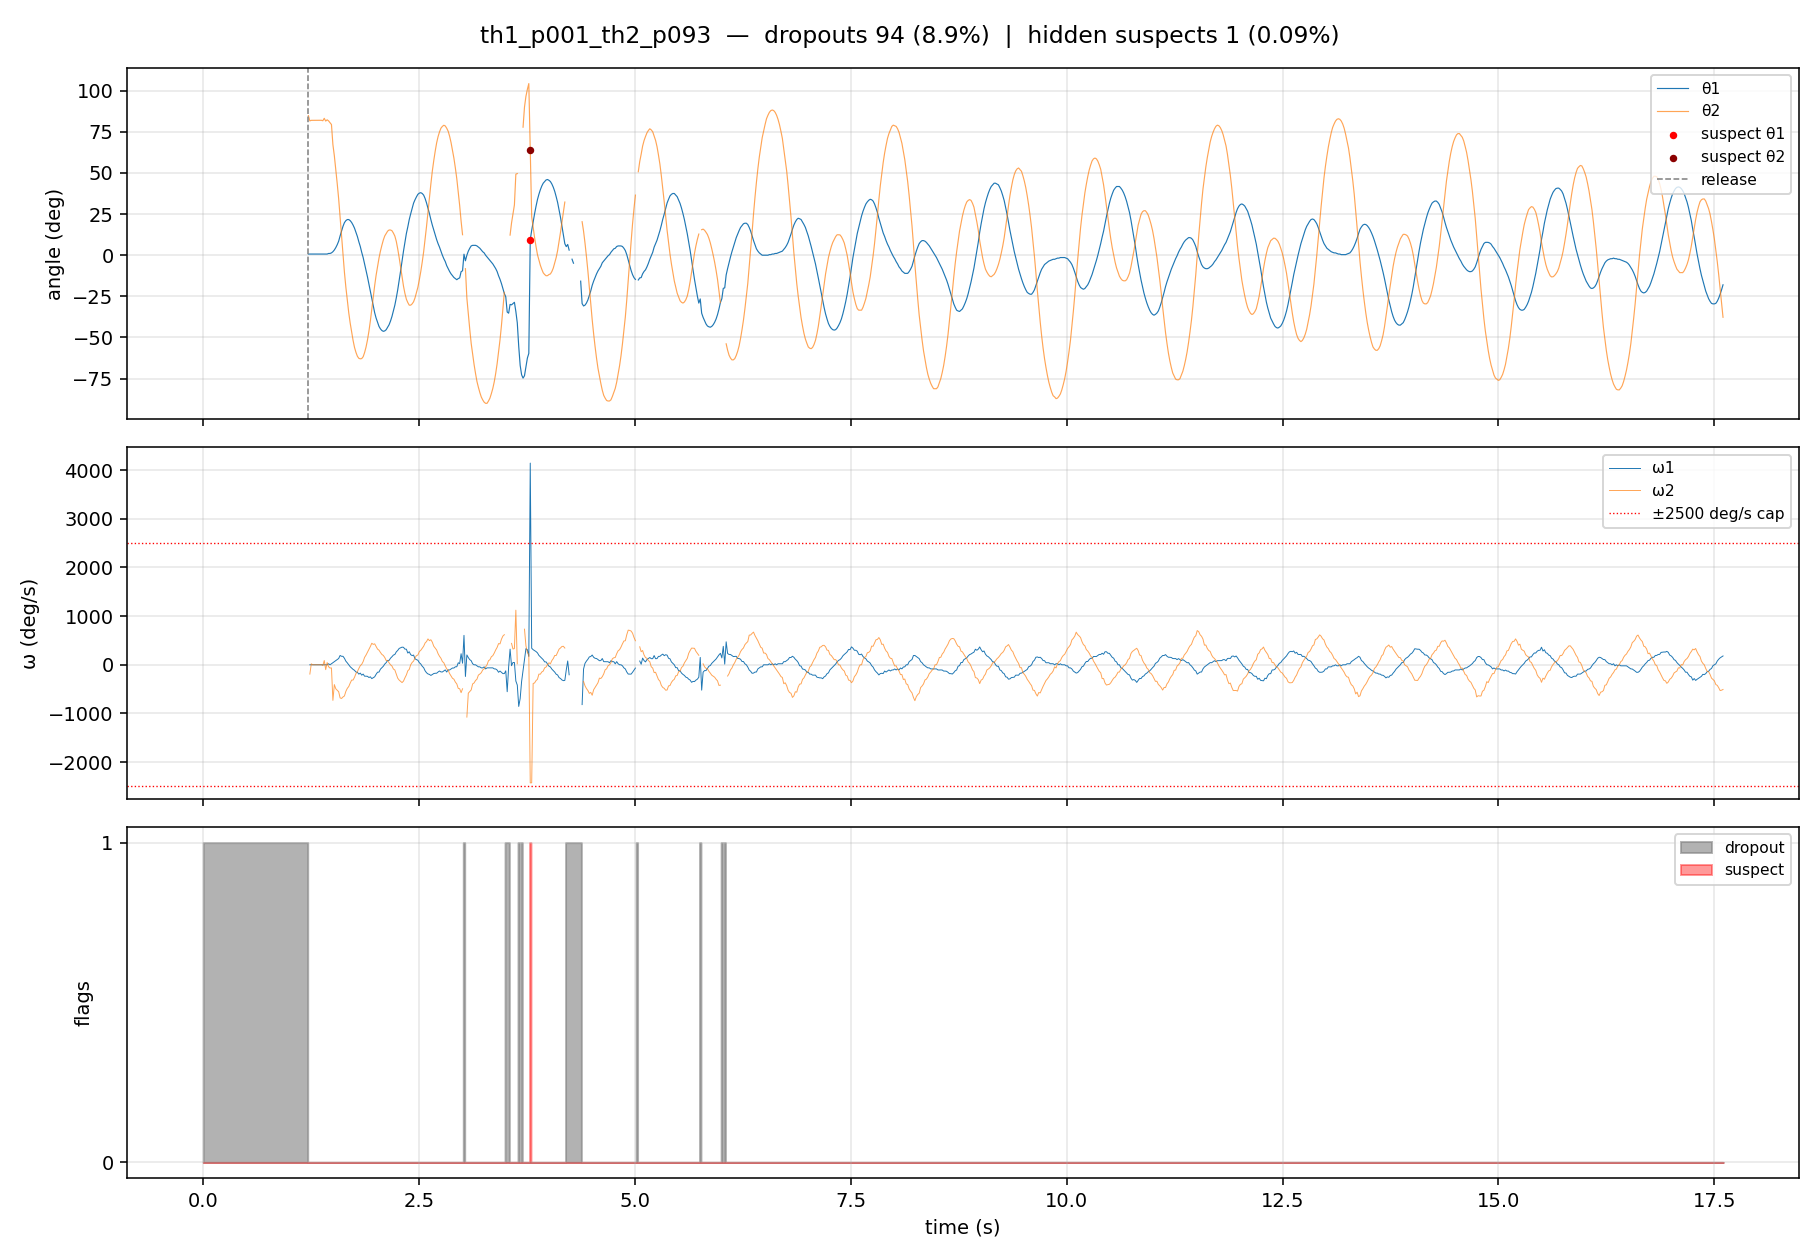
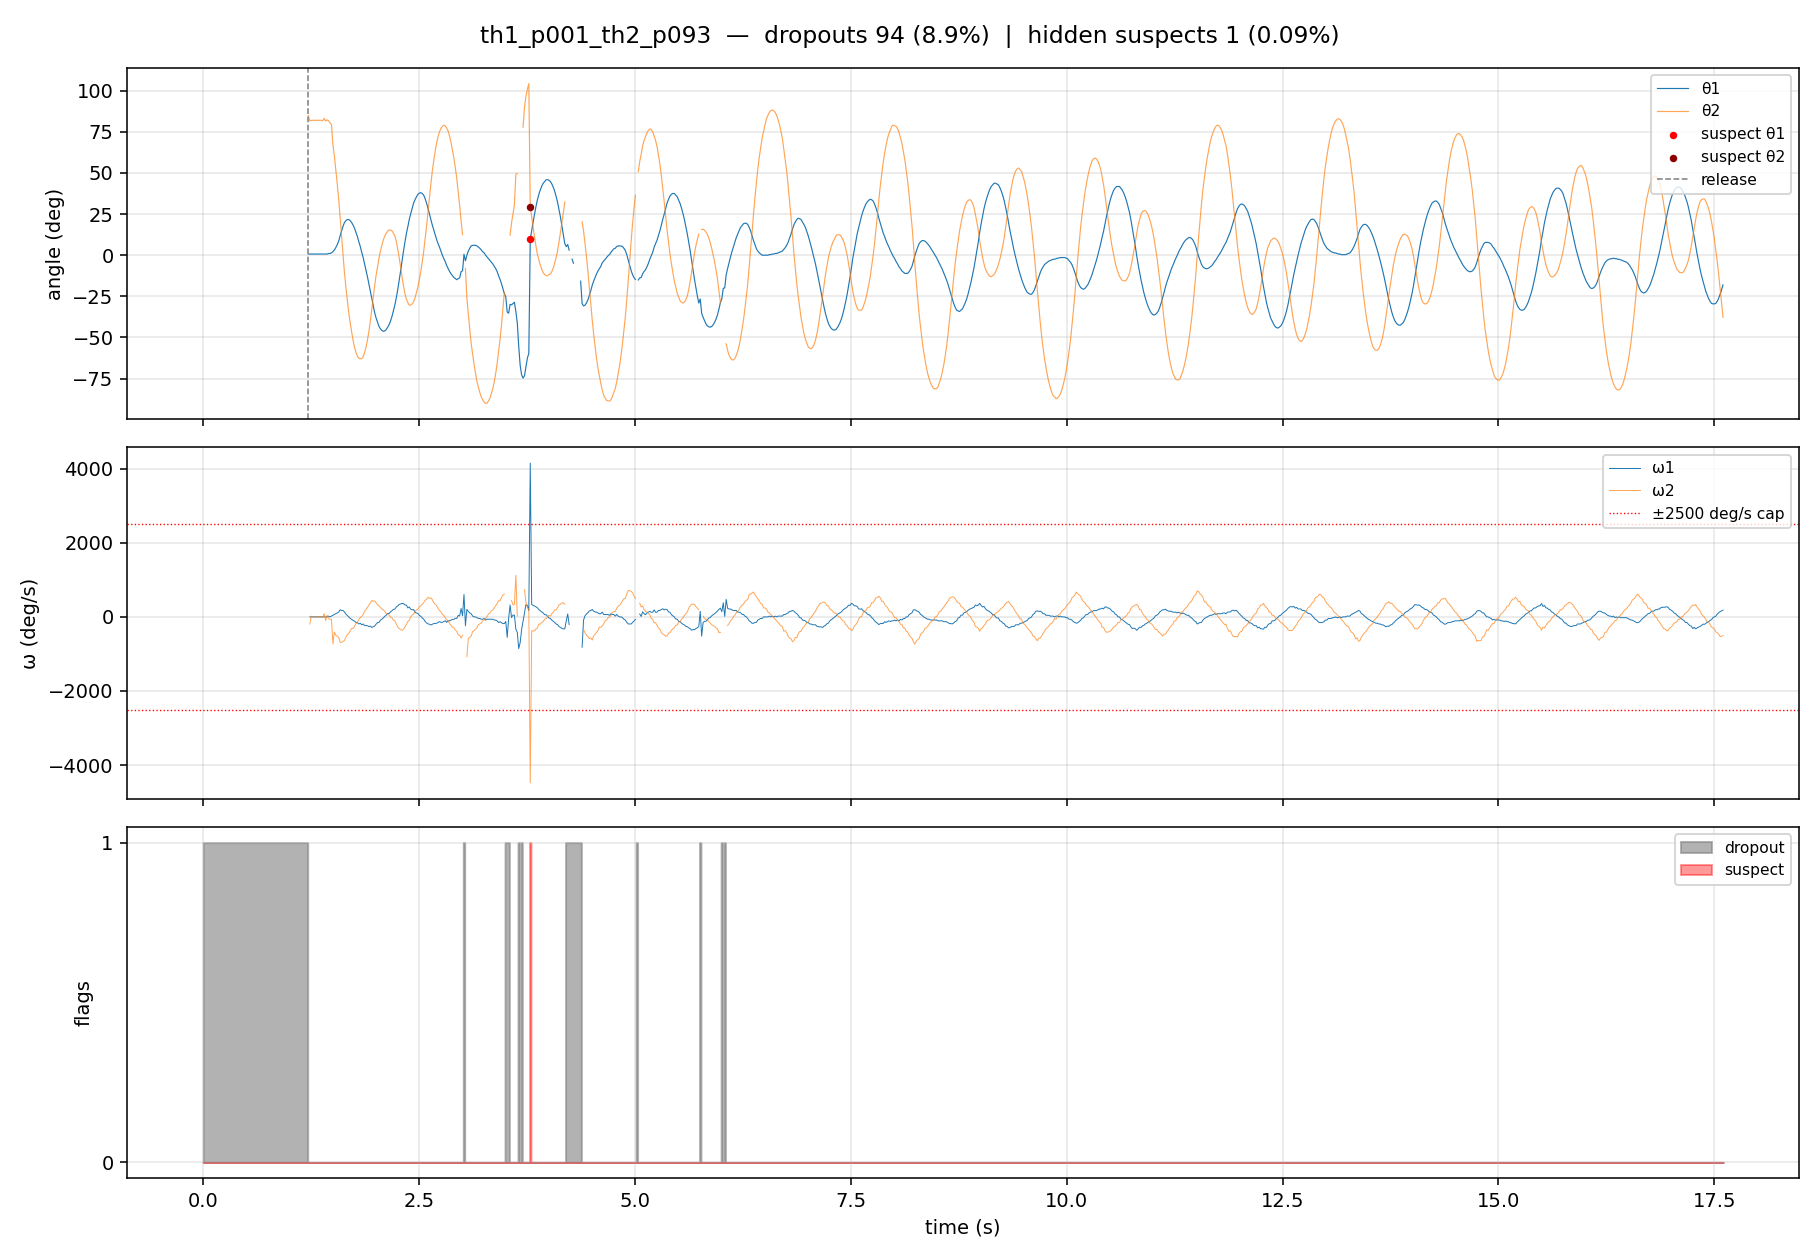
Mark th1_p067_th2_p096 + th1_p091_th2_m001 verified after WARN triage
Inspected verification.png for the 6 WARN-band clips:
  th1_p067_th2_p096 - smooth coupled oscillation over 24s, 0 hidden
                      suspects, 4.3% dropout entirely in holding phase.
                      Peak |w2|=2402 is one early-release spike.
  th1_p091_th2_m001 - smooth oscillation over 33s, 0 hidden suspects,
                      9.6% dropout entirely in holding (0-3.5s).
                      Tracked via manual_correction; registry
                      dropout_rate_pct field stale (see verification.csv).

Outstanding WARN clips (4):
  th1_p001_th2_p093 - 1 isolated suspect at frame 227, needs override
  th1_p079_th2_p000 - tracker bouncing between theta2 ghost positions
  th1_p090_th2_p000 - theta2 square-wave, 88-frame clip
  th1_m179_th2_p089 - real FAIL, needs HSV re-tune from scratch

experiments.json change includes other in-progress tracking work
already on disk (new init/release frames + dropout stats for clips
the user tracked manually).

Roadmap regenerated: PASS=10 WARN=4 FAIL=1 HSV-ABORT=12 NEEDS-PICKER=1.

diff --git a/docs/tracking_roadmap.md b/docs/tracking_roadmap.md
@@ -1,6 +1,6 @@
 # Tracking Roadmap
 
-_Generated 2026-05-01 22:47._ Re-run with `chaos roadmap`.
+_Generated 2026-05-01 23:51._ Re-run with `chaos roadmap`.
 
 Lives at [`docs/tracking_roadmap.md`](tracking_roadmap.md). Every row reflects the current state of `data/experiments.json` plus the latest `data/bulk_tracking_log.json` and per-clip `measurements/<stem>/verification.csv`.
 
@@ -8,11 +8,11 @@ Lives at [`docs/tracking_roadmap.md`](tracking_roadmap.md). Every row reflects t
 
 | Status | Count | Meaning |
 |---|---|---|
-| **PASS** | 5 | passed verification, in registry as verified |
-| **WARN** | 3 | tracking.csv exists, dropout/peak ω in WARN band |
+| **PASS** | 10 | passed verification, in registry as verified |
+| **WARN** | 4 | tracking.csv exists, dropout/peak ω in WARN band |
 | **FAIL** | 1 | tracking.csv exists but dropout > 10% or peak ω absurd |
-| **HSV-ABORT** | 17 | ring_tracker bailed on the HSV adequacy probe — needs `chaos tune` |
-| **NEEDS-PICKER** | 2 | no init/release/tag_frame in registry — needs interactive picker |
+| **HSV-ABORT** | 12 | ring_tracker bailed on the HSV adequacy probe — needs `chaos tune` |
+| **NEEDS-PICKER** | 1 | no init/release/tag_frame in registry — needs interactive picker |
 | **PENDING** | 0 | registry entry exists but no track_one run on record |
 | _total_ | 28 | every entry in `experiments.json` |
 
@@ -23,17 +23,18 @@ Lives at [`docs/tracking_roadmap.md`](tracking_roadmap.md). Every row reflects t
 | `th1_p037_th2_p094` | PASS | 1.51% | 705 | 0 | 1059 | 2026-05-01 | dropout, suspects, and ω all within thresholds |
 | `th1_p044_th2_m001` | PASS | 0.00% | 626 | 0 | 1075 | 2026-05-01 | verify_tracking.py @ 2500 deg/s cap: 0 dropouts, 0 suspects across 1239 frames (… |
 | `th1_p047_th2_m002` | PASS | 0.53% | 673 | 0 | 2652 | 2026-05-01 | PASS via manual_correction strict-physics flow. |
+| `th1_p056_th2_m001` | PASS | 0.00% | 825 | 0 | 1512 | 2026-05-01 | dropout, suspects, and ω all within thresholds |
+| `th1_p067_th2_p096` | PASS | 0.00% | 2402 | 0 | 1438 | 2026-05-01 | PASS via WARN-band manual triage 2026-05-01. Smooth coupled oscillation over 24s… |
+| `th1_p082_th2_p001` | PASS | 0.00% | 1163 | 0 | 1573 | 2026-05-01 | dropout, suspects, and ω all within thresholds |
+| `th1_p090_th2_p000_r2` | PASS | 1.49% | 2092 | 0 | 2681 | 2026-05-01 | manually accepted via chaos next |
+| `th1_p091_th2_m001` | PASS | 5.77% | 1205 | 0 | 1958 | 2026-05-01 | PASS via WARN-band manual triage 2026-05-01. Smooth coupled oscillation over 33s… |
 | `th1_p180_th2_m179` | PASS | 0.00% | 3466 | 12 | 30897 | 2026-05-01 | PASS via WARN-band manual triage 2026-05-01. 12 residual suspects post-interpola… |
 | `th1_p180_th2_p180` | PASS | 5.04% | 1824 | 0 | 1390 | 2026-05-01 | verify_tracking.py @ 2500 deg/s cap: 70 dropouts (4.98%, mostly early high-energ… |
-| `th1_p001_th2_p093` | WARN | 2.14% | 2426 | 1 | 983 | 2026-05-01 | interp 1 |
+| `th1_m179_th2_p089` | WARN | 0.64% | 5387 | 493 | 2647 | 2026-05-01 | interp 366 |
+| `th1_p001_th2_p093` | WARN | 2.14% | 4480 | 1 | 983 | 2026-05-01 | interp 1 |
 | `th1_p079_th2_p000` | WARN | 0.00% | 2660 | 2 | 178 | 2026-05-01 | interp 6 |
 | `th1_p090_th2_p000` | WARN | 0.00% | 1635 | 0 | 88 | 2026-05-01 | interp 7 |
 | `th1_m001_th2_p001` | FAIL | 22.18% | — | — | 983 | — | dropout 22.18% — re-track or HSV tune |
-| `th1_m179_th2_p089` | HSV-ABORT | — | — | — | — | 2026-05-01 | global HSV doesn't fit; run `chaos tune <stem>` |
-| `th1_p056_th2_m001` | HSV-ABORT | — | — | — | — | 2026-05-01 | global HSV doesn't fit; run `chaos tune <stem>` |
-| `th1_p067_th2_p096` | HSV-ABORT | — | — | — | — | 2026-05-01 | global HSV doesn't fit; run `chaos tune <stem>` |
-| `th1_p082_th2_p001` | HSV-ABORT | — | — | — | — | 2026-05-01 | global HSV doesn't fit; run `chaos tune <stem>` |
-| `th1_p091_th2_m001` | HSV-ABORT | — | — | — | — | 2026-05-01 | global HSV doesn't fit; run `chaos tune <stem>` |
 | `th1_p092_th2_m002` | HSV-ABORT | — | — | — | — | 2026-05-01 | global HSV doesn't fit; run `chaos tune <stem>` |
 | `th1_p092_th2_p000` | HSV-ABORT | — | — | — | — | 2026-05-01 | global HSV doesn't fit; run `chaos tune <stem>` |
 | `th1_p093_th2_m000` | HSV-ABORT | — | — | — | — | 2026-05-01 | global HSV doesn't fit; run `chaos tune <stem>` |
@@ -46,12 +47,11 @@ Lives at [`docs/tracking_roadmap.md`](tracking_roadmap.md). Every row reflects t
 | `th1_p160_th2_m001` | HSV-ABORT | — | — | — | — | 2026-05-01 | global HSV doesn't fit; run `chaos tune <stem>` |
 | `th1_p176_th2_p180` | HSV-ABORT | — | — | — | — | 2026-05-01 | global HSV doesn't fit; run `chaos tune <stem>` |
 | `th1_p180_th2_p090` | HSV-ABORT | — | — | — | — | 2026-05-01 | global HSV doesn't fit; run `chaos tune <stem>` |
-| `th1_p090_th2_p000_r2` | NEEDS-PICKER | — | — | — | — | — | no tag_frame/init_frame; run `chaos next` to pick init/release |
 | `th1_p094_th2_p000_r2` | NEEDS-PICKER | — | — | — | — | — | no tag_frame/init_frame; run `chaos next` to pick init/release |
 
 ## What to do next
 
-- **17 clips need per-clip HSV tuning.** Run `chaos tune <stem>` then `chaos track <stem>` on each HSV-ABORT row above.
-- **2 clips need a manual init/release pick.** Run `chaos next --stem <stem>` to drop into the picker.
-- **3 clips landed in WARN.** Inspect `measurements/<stem>/verification.png`; if acceptable, mark verified; otherwise `chaos fix <stem>`.
+- **12 clips need per-clip HSV tuning.** Run `chaos tune <stem>` then `chaos track <stem>` on each HSV-ABORT row above.
+- **1 clips need a manual init/release pick.** Run `chaos next --stem <stem>` to drop into the picker.
+- **4 clips landed in WARN.** Inspect `measurements/<stem>/verification.png`; if acceptable, mark verified; otherwise `chaos fix <stem>`.
 - **1 clips landed in FAIL.** Re-tune HSV or run `chaos fix <stem>` with seeds.
